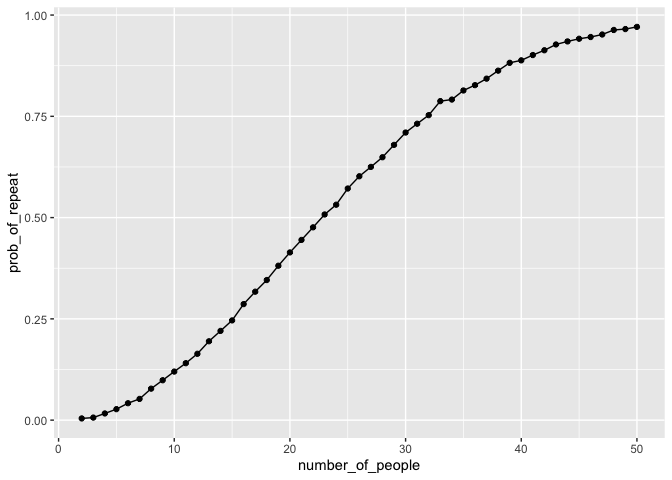
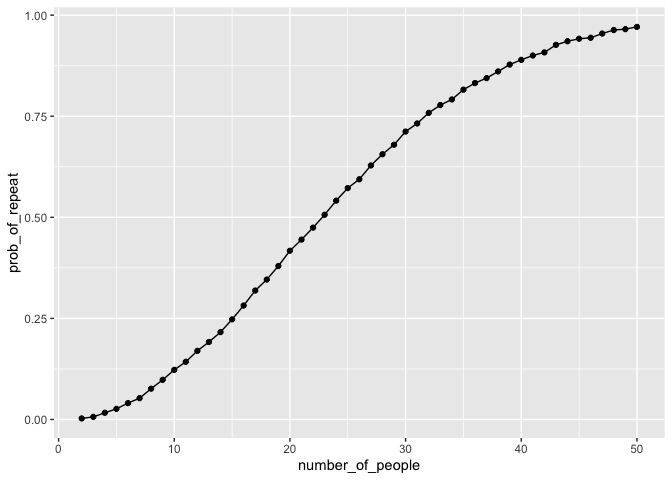
answer interpretations

diff --git a/p8105_hw5_ysl2122.md b/p8105_hw5_ysl2122.md
@@ -1,11 +1,13 @@
 Homework 5
 ================
 Yuyi Lin
-2026-11-16
+2026-11-18
+
+``` r
+library(tidyverse)
+```
 
 # Problem 1
-
-- n people total?
 
 ``` r
 set.seed(1236)
@@ -14,9 +16,13 @@ birthday_repeated = function(n_room) {
   repeated_birthdays  = length(unique(birthdays)) < n_room
   return(repeated_birthdays)
 }
+
+birthday_repeated(147)
 ```
 
-iterations
+    ## [1] TRUE
+
+TRUE statement confirms that there are duplicate birthdays in the group.
 
 ``` r
 birthday_results_df =
@@ -25,13 +31,8 @@ birthday_results_df =
     iter = 1:10000
   ) |> 
   mutate(
-    repeated = map_lgl(number_of_people, birthday_repeated)
-  )
-```
-
-look at these results
-
-``` r
+    repeated = map_lgl(number_of_people, birthday_repeated))
+    
 birthday_results_df |> 
   group_by(number_of_people) |> 
   summarize(prob_of_repeat = mean(repeated)) |> 
@@ -42,158 +43,23 @@ birthday_results_df |>
 
 ![](p8105_hw5_ysl2122_files/figure-gfm/unnamed-chunk-3-1.png)<!-- -->
 
-# Problem 2
+Plot confirms that probability of least two people in the group sharing
+a birthday increases when there is more people in the room. When this
+probability is 50%, there are about 22-23 people in the room.
 
-do map function!!!check if data folder list.files works - do you want
-list.files done in a specific way
+# Problem 2
 
 ``` r
 study_df = 
-  tibble(files = list.files("./data"), path = str_c("./data/", files)) |>
-  mutate(data = purrr::map(path, read_csv)) |> 
+  tibble(
+    files = list.files("./data"), 
+    path = str_c("./data/", files)
+  ) |>
+  mutate(data = purrr::map(path, read_csv, show_col_types= FALSE)) |> 
   unnest(data)
 ```
 
-    ## Rows: 1 Columns: 8
-    ## ── Column specification ────────────────────────────────────────────────────────
-    ## Delimiter: ","
-    ## dbl (8): week_1, week_2, week_3, week_4, week_5, week_6, week_7, week_8
-    ## 
-    ## ℹ Use `spec()` to retrieve the full column specification for this data.
-    ## ℹ Specify the column types or set `show_col_types = FALSE` to quiet this message.
-    ## Rows: 1 Columns: 8
-    ## ── Column specification ────────────────────────────────────────────────────────
-    ## Delimiter: ","
-    ## dbl (8): week_1, week_2, week_3, week_4, week_5, week_6, week_7, week_8
-    ## 
-    ## ℹ Use `spec()` to retrieve the full column specification for this data.
-    ## ℹ Specify the column types or set `show_col_types = FALSE` to quiet this message.
-    ## Rows: 1 Columns: 8
-    ## ── Column specification ────────────────────────────────────────────────────────
-    ## Delimiter: ","
-    ## dbl (8): week_1, week_2, week_3, week_4, week_5, week_6, week_7, week_8
-    ## 
-    ## ℹ Use `spec()` to retrieve the full column specification for this data.
-    ## ℹ Specify the column types or set `show_col_types = FALSE` to quiet this message.
-    ## Rows: 1 Columns: 8
-    ## ── Column specification ────────────────────────────────────────────────────────
-    ## Delimiter: ","
-    ## dbl (8): week_1, week_2, week_3, week_4, week_5, week_6, week_7, week_8
-    ## 
-    ## ℹ Use `spec()` to retrieve the full column specification for this data.
-    ## ℹ Specify the column types or set `show_col_types = FALSE` to quiet this message.
-    ## Rows: 1 Columns: 8
-    ## ── Column specification ────────────────────────────────────────────────────────
-    ## Delimiter: ","
-    ## dbl (8): week_1, week_2, week_3, week_4, week_5, week_6, week_7, week_8
-    ## 
-    ## ℹ Use `spec()` to retrieve the full column specification for this data.
-    ## ℹ Specify the column types or set `show_col_types = FALSE` to quiet this message.
-    ## Rows: 1 Columns: 8
-    ## ── Column specification ────────────────────────────────────────────────────────
-    ## Delimiter: ","
-    ## dbl (8): week_1, week_2, week_3, week_4, week_5, week_6, week_7, week_8
-    ## 
-    ## ℹ Use `spec()` to retrieve the full column specification for this data.
-    ## ℹ Specify the column types or set `show_col_types = FALSE` to quiet this message.
-    ## Rows: 1 Columns: 8
-    ## ── Column specification ────────────────────────────────────────────────────────
-    ## Delimiter: ","
-    ## dbl (8): week_1, week_2, week_3, week_4, week_5, week_6, week_7, week_8
-    ## 
-    ## ℹ Use `spec()` to retrieve the full column specification for this data.
-    ## ℹ Specify the column types or set `show_col_types = FALSE` to quiet this message.
-    ## Rows: 1 Columns: 8
-    ## ── Column specification ────────────────────────────────────────────────────────
-    ## Delimiter: ","
-    ## dbl (8): week_1, week_2, week_3, week_4, week_5, week_6, week_7, week_8
-    ## 
-    ## ℹ Use `spec()` to retrieve the full column specification for this data.
-    ## ℹ Specify the column types or set `show_col_types = FALSE` to quiet this message.
-    ## Rows: 1 Columns: 8
-    ## ── Column specification ────────────────────────────────────────────────────────
-    ## Delimiter: ","
-    ## dbl (8): week_1, week_2, week_3, week_4, week_5, week_6, week_7, week_8
-    ## 
-    ## ℹ Use `spec()` to retrieve the full column specification for this data.
-    ## ℹ Specify the column types or set `show_col_types = FALSE` to quiet this message.
-    ## Rows: 1 Columns: 8
-    ## ── Column specification ────────────────────────────────────────────────────────
-    ## Delimiter: ","
-    ## dbl (8): week_1, week_2, week_3, week_4, week_5, week_6, week_7, week_8
-    ## 
-    ## ℹ Use `spec()` to retrieve the full column specification for this data.
-    ## ℹ Specify the column types or set `show_col_types = FALSE` to quiet this message.
-    ## Rows: 1 Columns: 8
-    ## ── Column specification ────────────────────────────────────────────────────────
-    ## Delimiter: ","
-    ## dbl (8): week_1, week_2, week_3, week_4, week_5, week_6, week_7, week_8
-    ## 
-    ## ℹ Use `spec()` to retrieve the full column specification for this data.
-    ## ℹ Specify the column types or set `show_col_types = FALSE` to quiet this message.
-    ## Rows: 1 Columns: 8
-    ## ── Column specification ────────────────────────────────────────────────────────
-    ## Delimiter: ","
-    ## dbl (8): week_1, week_2, week_3, week_4, week_5, week_6, week_7, week_8
-    ## 
-    ## ℹ Use `spec()` to retrieve the full column specification for this data.
-    ## ℹ Specify the column types or set `show_col_types = FALSE` to quiet this message.
-    ## Rows: 1 Columns: 8
-    ## ── Column specification ────────────────────────────────────────────────────────
-    ## Delimiter: ","
-    ## dbl (8): week_1, week_2, week_3, week_4, week_5, week_6, week_7, week_8
-    ## 
-    ## ℹ Use `spec()` to retrieve the full column specification for this data.
-    ## ℹ Specify the column types or set `show_col_types = FALSE` to quiet this message.
-    ## Rows: 1 Columns: 8
-    ## ── Column specification ────────────────────────────────────────────────────────
-    ## Delimiter: ","
-    ## dbl (8): week_1, week_2, week_3, week_4, week_5, week_6, week_7, week_8
-    ## 
-    ## ℹ Use `spec()` to retrieve the full column specification for this data.
-    ## ℹ Specify the column types or set `show_col_types = FALSE` to quiet this message.
-    ## Rows: 1 Columns: 8
-    ## ── Column specification ────────────────────────────────────────────────────────
-    ## Delimiter: ","
-    ## dbl (8): week_1, week_2, week_3, week_4, week_5, week_6, week_7, week_8
-    ## 
-    ## ℹ Use `spec()` to retrieve the full column specification for this data.
-    ## ℹ Specify the column types or set `show_col_types = FALSE` to quiet this message.
-    ## Rows: 1 Columns: 8
-    ## ── Column specification ────────────────────────────────────────────────────────
-    ## Delimiter: ","
-    ## dbl (8): week_1, week_2, week_3, week_4, week_5, week_6, week_7, week_8
-    ## 
-    ## ℹ Use `spec()` to retrieve the full column specification for this data.
-    ## ℹ Specify the column types or set `show_col_types = FALSE` to quiet this message.
-    ## Rows: 1 Columns: 8
-    ## ── Column specification ────────────────────────────────────────────────────────
-    ## Delimiter: ","
-    ## dbl (8): week_1, week_2, week_3, week_4, week_5, week_6, week_7, week_8
-    ## 
-    ## ℹ Use `spec()` to retrieve the full column specification for this data.
-    ## ℹ Specify the column types or set `show_col_types = FALSE` to quiet this message.
-    ## Rows: 1 Columns: 8
-    ## ── Column specification ────────────────────────────────────────────────────────
-    ## Delimiter: ","
-    ## dbl (8): week_1, week_2, week_3, week_4, week_5, week_6, week_7, week_8
-    ## 
-    ## ℹ Use `spec()` to retrieve the full column specification for this data.
-    ## ℹ Specify the column types or set `show_col_types = FALSE` to quiet this message.
-    ## Rows: 1 Columns: 8
-    ## ── Column specification ────────────────────────────────────────────────────────
-    ## Delimiter: ","
-    ## dbl (8): week_1, week_2, week_3, week_4, week_5, week_6, week_7, week_8
-    ## 
-    ## ℹ Use `spec()` to retrieve the full column specification for this data.
-    ## ℹ Specify the column types or set `show_col_types = FALSE` to quiet this message.
-    ## Rows: 1 Columns: 8
-    ## ── Column specification ────────────────────────────────────────────────────────
-    ## Delimiter: ","
-    ## dbl (8): week_1, week_2, week_3, week_4, week_5, week_6, week_7, week_8
-    ## 
-    ## ℹ Use `spec()` to retrieve the full column specification for this data.
-    ## ℹ Specify the column types or set `show_col_types = FALSE` to quiet this message.
+### Tidy Df
 
 ``` r
 tidy_df = 
@@ -212,12 +78,23 @@ tidy_df =
 
 tidy_df |> 
   ggplot(aes(x = week, y = outcome, group = subj, color = group)) + 
-  geom_line() + geom_point() + facet_grid(~group) 
+  geom_line() + 
+  geom_point() + 
+  facet_grid(~group) 
 ```
 
-![](p8105_hw5_ysl2122_files/figure-gfm/unnamed-chunk-4-1.png)<!-- -->
+![](p8105_hw5_ysl2122_files/figure-gfm/unnamed-chunk-5-1.png)<!-- -->
+
+Plot indicates while participants in the control arm seemed to have
+similar outcomes over the week (ranging from about -1.2 to 3.7),
+participants in the experimental arm had increased outcomes, scaling up
+from 0 to 7.5 over the week.
 
 # Problem 3
+
+- do you want t-test done in a specific way
+- is the third graph interpretation good
+- should we add x, y, and graph titles or what i have ok
 
 ``` r
 sim_ttest = function(mu){
@@ -242,14 +119,40 @@ sim_results_df =
   unnest(est_df) |> 
   mutate(rejected = p.value < 0.05)
 
+sim_results_df
+```
+
+    ## # A tibble: 35,000 × 5
+    ##       mu  iter estimate p.value rejected
+    ##    <int> <int>    <dbl>   <dbl> <lgl>   
+    ##  1     0     1    0.758  0.346  FALSE   
+    ##  2     0     2    1.05   0.154  FALSE   
+    ##  3     0     3    0.909  0.266  FALSE   
+    ##  4     0     4    0.176  0.829  FALSE   
+    ##  5     0     5   -1.84   0.0887 FALSE   
+    ##  6     0     6   -0.186  0.817  FALSE   
+    ##  7     0     7   -0.195  0.847  FALSE   
+    ##  8     0     8    0.886  0.287  FALSE   
+    ##  9     0     9    1.21   0.193  FALSE   
+    ## 10     0    10    0.414  0.694  FALSE   
+    ## # ℹ 34,990 more rows
+
+``` r
 sim_results_df |> 
   group_by(mu) |> 
   summarize(power = mean(rejected)) |> 
   ggplot(aes(x = mu, y = power)) + 
-  geom_point() + geom_line()
+  geom_point() + 
+  geom_line()
 ```
 
-![](p8105_hw5_ysl2122_files/figure-gfm/unnamed-chunk-6-1.png)<!-- -->
+![](p8105_hw5_ysl2122_files/figure-gfm/unnamed-chunk-8-1.png)<!-- -->
+
+As the true population mu moves further away from the null mean, effect
+size increases, and (the proportion of times the null was rejected)
+exponentially increases. This plot supports that studies with small true
+effect size may be underpowered compared to studies with larger true
+effect size.
 
 ``` r
 sim_results_df |> 
@@ -259,7 +162,11 @@ sim_results_df |>
   geom_point() + geom_line()
 ```
 
-![](p8105_hw5_ysl2122_files/figure-gfm/unnamed-chunk-7-1.png)<!-- -->
+![](p8105_hw5_ysl2122_files/figure-gfm/unnamed-chunk-9-1.png)<!-- -->
+
+As the true population mu increases, the average estimate of mu also
+increases, indicating that the sample mean is an unbiased estimator
+across multiple iterations.
 
 ``` r
 sim_results_df |> 
@@ -267,12 +174,14 @@ sim_results_df |>
   group_by(mu) |> 
   summarize(
     emp_mean = mean(estimate)) |> 
-  ggplot(aes(x = mu, y = emp_mean)) + geom_point() + geom_line()
+  ggplot(aes(x = mu, y = emp_mean)) + 
+  geom_point() + geom_line()
 ```
 
-![](p8105_hw5_ysl2122_files/figure-gfm/unnamed-chunk-8-1.png)<!-- -->
-simulation! more similar to birthday problem. conduct hypothesis tests
-to see when the true effect size is relatively small, how often do you
-reject the null hypothesis. think in context of bias in scientific
-publishing -\> should see biased effect estimates when the truth is
-small and you have underpowered studies
+![](p8105_hw5_ysl2122_files/figure-gfm/unnamed-chunk-10-1.png)<!-- -->
+
+After filtering by samples for which the null was rejected, we found
+that the average estimate of mu was higher than the true population mean
+when the effect size was small compared to when we looked at true mu for
+samples in general. However, when true mean increased, it had high
+enough power where the average mu estimate could better approximate it.
